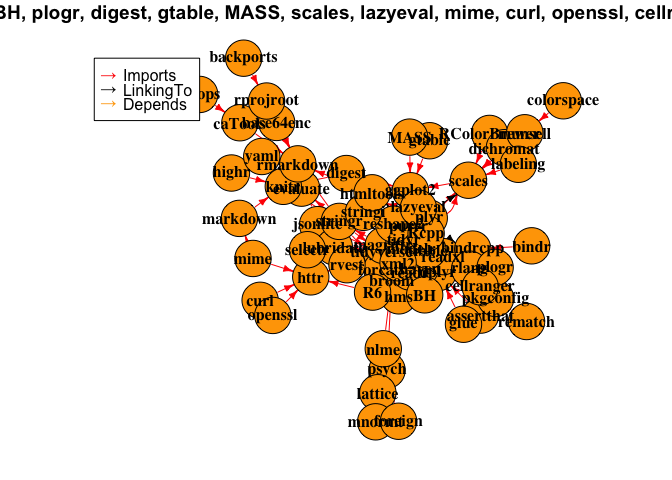
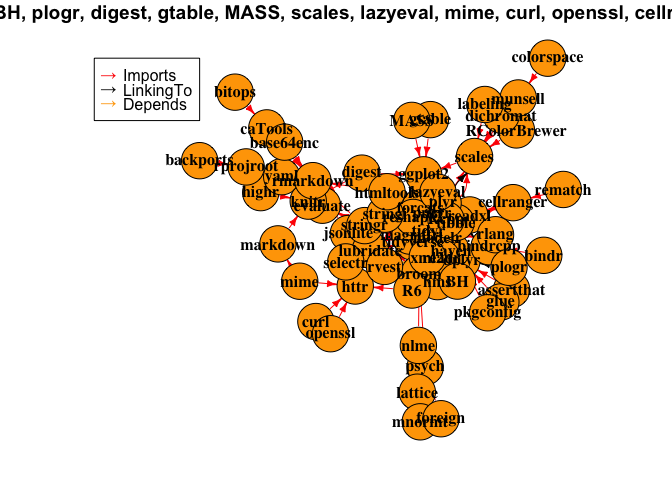
try to changes sizes (only worked for grViz)

Changed region(s): [[0.25, 0.0625, 0.9062, 0.9375]]

diff --git a/dplyr/tidyverse.md b/dplyr/tidyverse.md
@@ -32,7 +32,7 @@ library("DiagrammeR")
 ``` r
 tags <- pkgDep("tidyverse")
 dg <- makeDepGraph(tags, enhances=FALSE, suggests=FALSE)
-plot(dg, legendPosition = c(-1, 1), vertex.size=20)
+plot(dg, legendPosition = c(-1, 1), vertex.size=20, width=10000, height=10000)
 ```
 
 ![](tidyverse_files/figure-markdown_github/graph-1.png)
@@ -42,7 +42,7 @@ igraph::write_graph(dg, 'tidyverse.dot', format='dot')
 txt <- readLines('tidyverse.dot')
 txt <- gsub('name=','label=', txt, fixed = TRUE)
 writeLines(txt, 'tidyverse.dot')
-DiagrammeR::grViz('tidyverse.dot')
+DiagrammeR::grViz('tidyverse.dot', width=10000, height=10000)
 ```
 
 ![](tidyverse_files/figure-markdown_github/graph-2.png)
